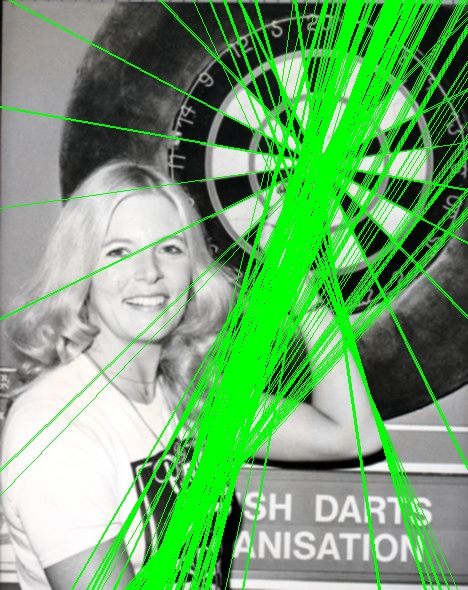
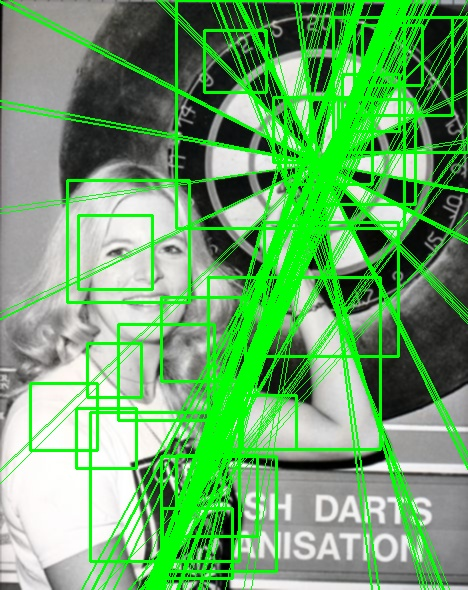
Nearly there

diff --git a/Subtask3/dart.cpp b/Subtask3/dart.cpp
@@ -28,7 +28,7 @@ Mat getGradDir(Mat frame_gray);
 Mat prepImage(Mat frame);
 Mat generateLineHoughSpace(Mat gradMag, Mat gradDir);
 Mat generateCircleHoughSpace(Mat gradMag, Mat gradDir);
-int* detectBoards(Mat originalImage, Mat houghSpace, int* buckets);
+Mat detectBoards(Mat originalImage, Mat houghSpace, int* buckets);
 Mat drawCircles (Mat originalImage, Mat houghSpace);
 /** Global variables */
 String cascade_name = "cascade.xml";
@@ -46,38 +46,32 @@ int main( int argc, const char** argv ) {
 	// 3. Detect Faces and Display Result
 	//detectAndDisplay( frame , argv[1]);
 
-    Mat prepedImage = prepImage(frame);
+  Mat prepedImage = prepImage(frame);
 	Mat gradMag = getGradMag(prepedImage);
 	Mat gradDir = getGradDir(prepedImage);
 
-    Mat houghSpace = generateLineHoughSpace(gradMag, gradDir);
+  Mat houghSpace = generateLineHoughSpace(gradMag, gradDir);
 	int buckets[20*20] = {0};
-	int* boards = detectBoards(frame, houghSpace, buckets);
-	
-	for (int x = 0; x < 20; x++) {
-		for (int y = 0; y < 20; y++) {
-			if (boards[x*20+y] > 20) {
-				cout << "X: " << x << " Y: " << y << endl;
-			}
-		}
-	}
+	Mat detected = detectBoards(frame, houghSpace, buckets);
 
 	// 4. Save Result Image
 	string filename = argv[1];
 	string outputname = filename.substr(10, filename.size() - 14);
 	//imwrite( "Detected/"+outputname+".jpg", output );
 
-	imwrite( "Lines/"+outputname+".jpg", gradMag );
+	imwrite( "Detected/"+outputname+".jpg", detected );
 
 	return 0;
 }
 
-int* detectBoards(Mat originalImage, Mat houghSpace, int* buckets) {
+Mat detectBoards(Mat originalImage, Mat houghSpace, int* buckets) {
 
 	double pi = 3.1415926535897;
-  	int width = originalImage.size().width;
+  int width = originalImage.size().width;
 	int height = originalImage.size().height;
-  	int count = 0;
+  int count = 0;
+	int bucketavgx[20*20] = {0};
+	int bucketavgy[20*20] = {0};
 	int bucketsizex = floor(width/20);
 	int bucketsizey = floor(height/20);
 
@@ -93,7 +87,7 @@ int* detectBoards(Mat originalImage, Mat houghSpace, int* buckets) {
 			}
 		}
 	}
-	cout << count << endl;
+	
 	int linearray[count*2];
 	int counted = 0;
 	for (int degrees = 0; degrees < houghSpace.size().width; degrees++) {
@@ -128,6 +122,9 @@ int* detectBoards(Mat originalImage, Mat houghSpace, int* buckets) {
 					for (int buckety = 0; buckety < 20; buckety++) {
 						if (x >= bucketx * bucketsizex && x < (bucketx+1)*bucketsizex && y >= buckety * bucketsizey && y < (buckety+1)*bucketsizey) {
 							buckets[bucketx*20+buckety]++;
+							bucketavgx[bucketx*20+buckety] = (bucketavgx[bucketx*20+buckety]*(buckets[bucketx*20+buckety]-1) + x)/buckets[bucketx*20+buckety];
+							bucketavgy[bucketx*20+buckety] = (bucketavgy[bucketx*20+buckety]*(buckets[bucketx*20+buckety]-1) + y)/buckets[bucketx*20+buckety];
+
 						}
 					}
 				}
@@ -135,18 +132,76 @@ int* detectBoards(Mat originalImage, Mat houghSpace, int* buckets) {
 		}
 	}
 
+		// for (int x = 0; x < 20; x++) {
+		// 	for (int y = 0; y < 20; y++) {
+		// 		if (buckets[x*20+y] > 20) {
+		// 			cout << "X: " << bucketavgx[x*20+y] << " Y: " << bucketavgy[x*20+y] << endl;
+		// 		}
+		// 	}
+		// }
 
+		std::vector<Rect> boards;
+		Mat frame_gray;
+
+		// 1. Prepare Image by turning it into Grayscale and normalising lighting
+		cvtColor( originalImage, frame_gray, CV_BGR2GRAY );
+		equalizeHist( frame_gray, frame_gray );
+
+		// 2. Perform Viola-Jones Object Detection
+		cascade.detectMultiScale( frame_gray, boards, 1.1, 1, 0|CV_HAAR_SCALE_IMAGE, Size(50, 50), Size(500,500) );
+		// for( int i = 0; i < boards.size(); i++ ) {
+	 	// 	rectangle(originalImage, Point(boards[i].x, boards[i].y), Point(boards[i].x + boards[i].width, boards[i].y + boards[i].height), Scalar( 0, 255, 0 ), 2);
+    // }
+		// 4. Draw box around faces found
+
+		for(int x = 0; x < 20; x++){
+			for(int y = 0; y < 20; y++){
+				for( int i = 0; i < boards.size(); i++ ) {
+					int topleftx = boards[i].x;
+					int toplefty = boards[i].y;
+					int bottomrightx = boards[i].x + boards[i].width;
+					int bottomrighty = boards[i].y + boards[i].height;
+
+					if(bucketavgx[x*20+y] > topleftx && bucketavgx[x*20+y] < topleftx + bottomrightx \
+					&& bucketavgy[x*20+y] > toplefty && bucketavgy[x*20+y] < toplefty + bottomrighty) {
+						rectangle(originalImage, Point(boards[i].x, boards[i].y), Point(boards[i].x + boards[i].width, boards[i].y + boards[i].height), Scalar( 0, 255, 0 ), 2);
+					}
+				}
+			}
+		}
+
+		//std::cout << boards.size() << std::endl;
+
+		//calcF1(boards, filename);
 
 	//line(originalImage, Point(width, crosswidth), Point(crossheight, height), Scalar( 0, 255, 0 ), 1);
 	//line(originalImage, Point(0, crossy), Point(crossx, 0), Scalar( 0, 255, 0 ), 1);
 	// line(originalImage, Point(0, crossy), Point(crossheight, height), Scalar( 0, 255, 0 ), 1);
 	// line(originalImage, Point(crossx, 0), Point(crossheight, height), Scalar( 0, 255, 0 ), 1);
 	// line(originalImage, Point(crossx, 0), Point(width, crosswidth), Scalar( 0, 255, 0 ), 1);
+	return originalImage;
+}
 
+void detectAndDisplay( Mat frame , string filename) {
+	std::vector<Rect> faces;
+	Mat frame_gray;
 
+	// 1. Prepare Image by turning it into Grayscale and normalising lighting
+	cvtColor( frame, frame_gray, CV_BGR2GRAY );
+	equalizeHist( frame_gray, frame_gray );
 
+	// 2. Perform Viola-Jones Object Detection
+	cascade.detectMultiScale( frame_gray, faces, 1.1, 1, 0|CV_HAAR_SCALE_IMAGE, Size(50, 50), Size(500,500) );
 
-	return buckets;
+	// 3. Print number of Faces found
+	std::cout << faces.size() << std::endl;
+
+	// 4. Draw box around faces found
+	for( int i = 0; i < faces.size(); i++ ) {
+		rectangle(frame, Point(faces[i].x, faces[i].y), Point(faces[i].x + faces[i].width, faces[i].y + faces[i].height), Scalar( 0, 255, 0 ), 2);
+	}
+	calcF1(faces, filename);
+
 }
 
 Mat generateLineHoughSpace(Mat gradMag, Mat gradDir) {
@@ -176,29 +231,6 @@ Mat generateLineHoughSpace(Mat gradMag, Mat gradDir) {
 	imwrite( "hough.jpg", output );
   return output;
 }
-
-// Mat generateCircleHoughSpace(Mat gradMag, Mat gradDir) {
-//
-//   int rmax = 200;
-// 	int rmin = 20;
-//
-// 	Mat houghSpace(2*(height+width), 360, CV_32SC1, Scalar(0));
-//
-//   for (int x = 0; x < gradMag.size().width; x++) {
-// 		for (int y = 0; y < gradMag.size().height; y++) {
-// 			for (int r = rmin; r < rmax; r++){
-// 				int x0 = round(x + r * sin(gradDir.at<float>(y, x)));
-// 				int y0 = round(y + r * cos(gradDir.at<float>(y, x)));
-// 				if (x0 > 0 && y0 > 0 && x0 < gradMag.size().width && y0 < gradMag.size().height){
-//
-// 				}
-// 			}
-//
-// 		}
-// 	}
-//
-// }
-
 
 Mat prepImage(Mat frame) {
 
@@ -278,27 +310,6 @@ Mat getGradMag(Mat frame_gray) {
 }
 
 /** @function detectAndDisplay */
-void detectAndDisplay( Mat frame , string filename) {
-	std::vector<Rect> faces;
-	Mat frame_gray;
-
-	// 1. Prepare Image by turning it into Grayscale and normalising lighting
-	cvtColor( frame, frame_gray, CV_BGR2GRAY );
-	equalizeHist( frame_gray, frame_gray );
-
-	// 2. Perform Viola-Jones Object Detection
-	cascade.detectMultiScale( frame_gray, faces, 1.1, 1, 0|CV_HAAR_SCALE_IMAGE, Size(50, 50), Size(500,500) );
-
-       // 3. Print number of Faces found
-	std::cout << faces.size() << std::endl;
-
-       // 4. Draw box around faces found
-	for( int i = 0; i < faces.size(); i++ ) {
-		rectangle(frame, Point(faces[i].x, faces[i].y), Point(faces[i].x + faces[i].width, faces[i].y + faces[i].height), Scalar( 0, 255, 0 ), 2);
-	}
-  calcF1(faces, filename);
-
-}
 
 bool checkMatch(string topleftx, string toplefty, string bottomrightx, string bottomrighty, Rect		 face) {
   if (abs(stoi(topleftx) - face.x) < 100 && abs(stoi(toplefty) - face.y) < 100 \
